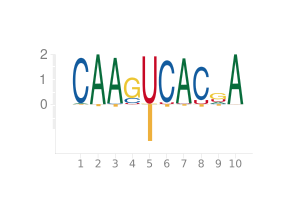
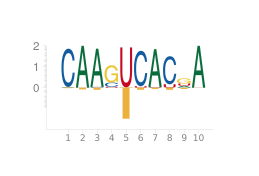
crosslink thinkness change

diff --git a/README.md b/README.md
@@ -168,7 +168,7 @@ Use
 
 
 <!-- 
-save_crosslinked_logoplot(pfm, C, "tmp.png"; highlighted_regions=highlighted_regions2) -->
-
+save_crosslinked_logoplot(pfm, C2, "tmp.png"; highlighted_regions=highlighted_regions2)-->
+ 
 ## Acknowledgement
 This code repo modifies some of the code using the work from https://github.com/BenjaminDoran/LogoPlots.jl.
